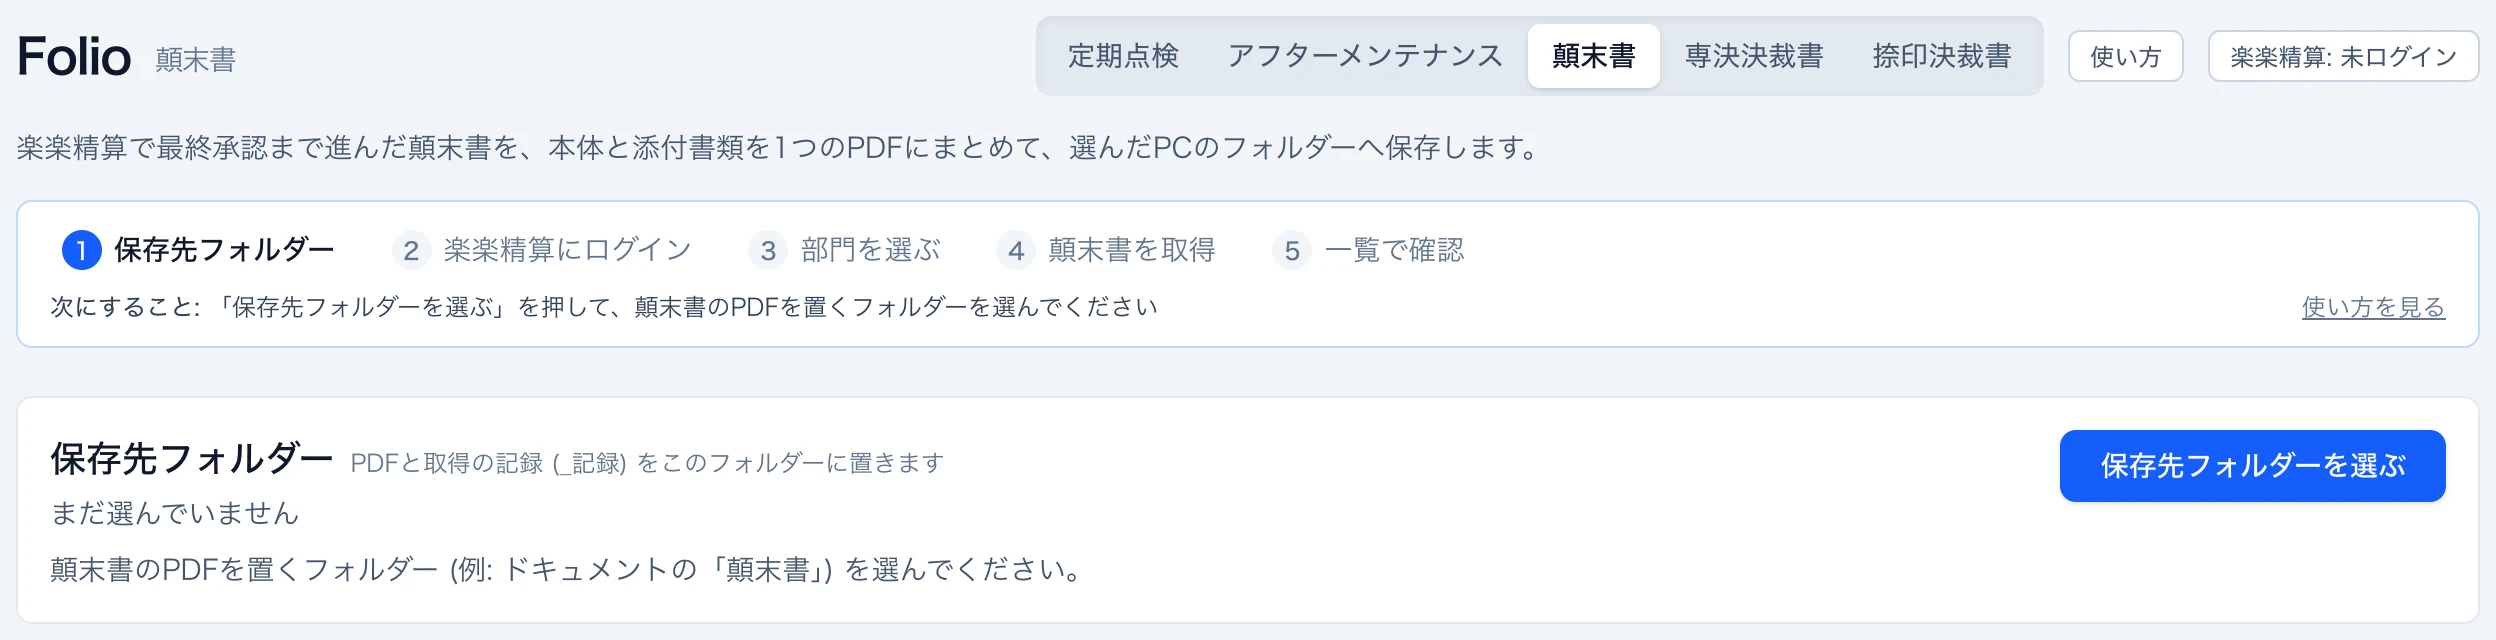
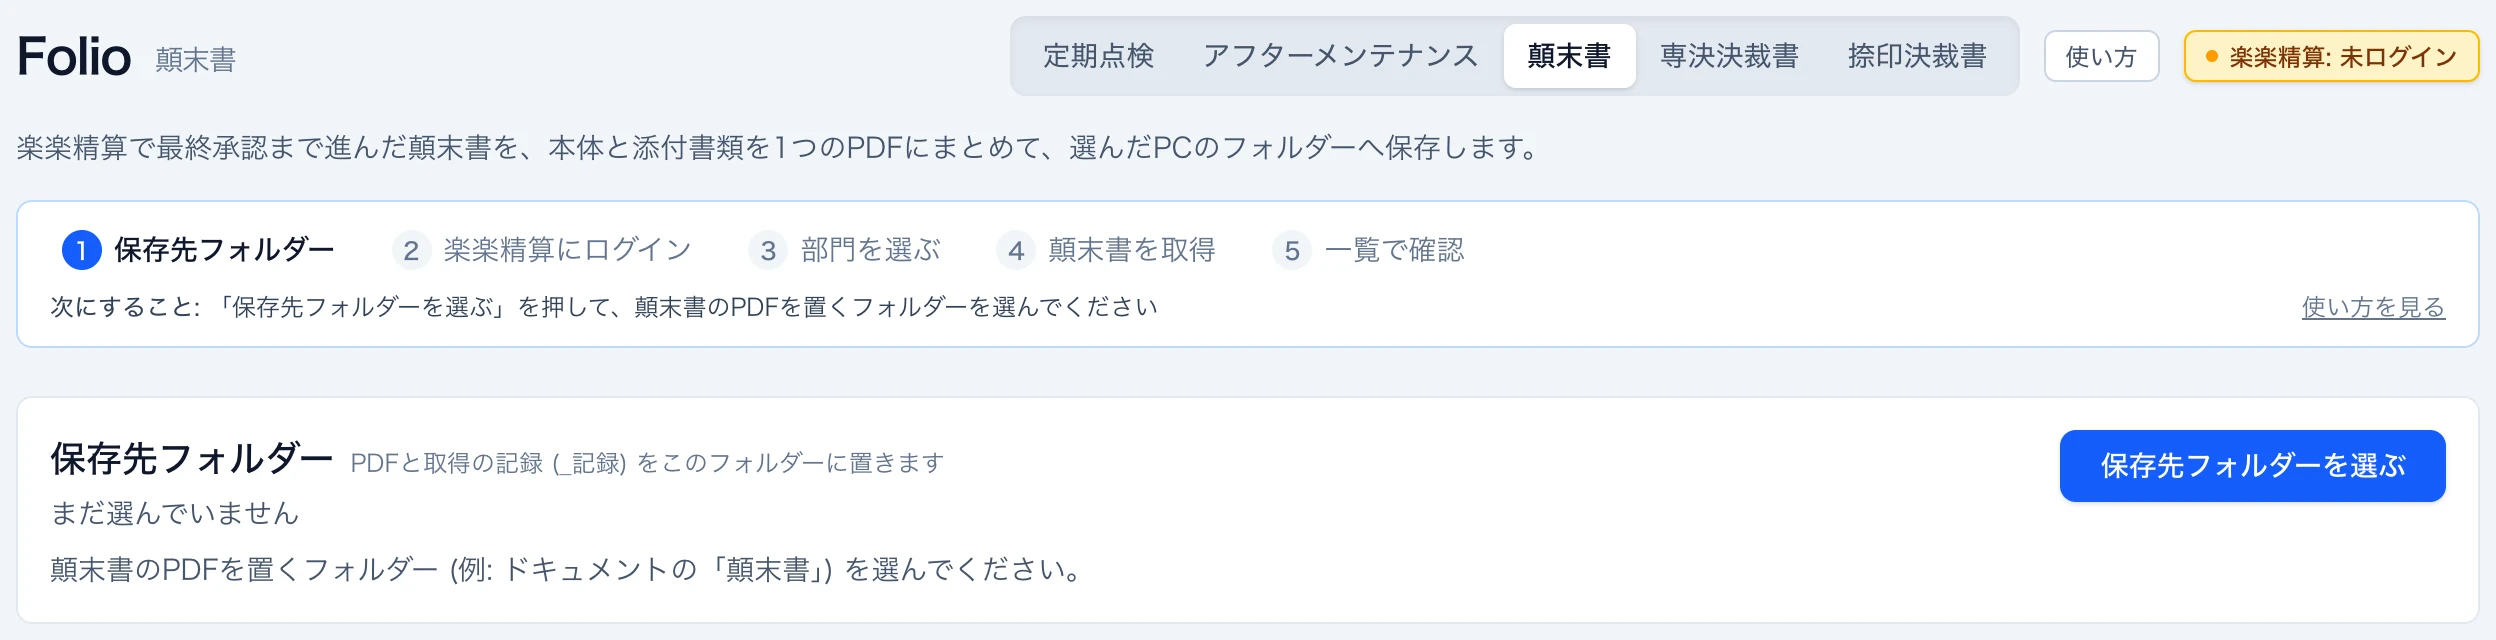
ヘッダー: 楽楽精算の未ログインを目立たせ、ログアウトの行き先を名前で分ける
ほかのボタンと同じ灰色だったので、どちらも気づきにくかった。

- 未ログインは琥珀色＋点で出す。ただし目立たせるのは**楽楽精算を使う3画面**
  だけで、定期点検・アフターでは今までどおり静かに出す（使わない画面で
  気を引いても邪魔なだけ）。ログイン中は緑＋点。
- 「ログアウト」を「Folio からログアウト」にした。楽楽精算側は
  「ログアウト (パスワードを忘れる)」なので、名前で見分けられる。
  間に区切りを入れ、吹き出しに楽楽精算側の場所も書いた。

使い方の FAQ と README も、ログアウトが2つあることを書く形に直した。
顛末書の1枚目も撮り直した。

Changed region(s): [[0.4062, 0.0312, 1.0, 0.1562]]

diff --git a/components/mode-nav.tsx b/components/mode-nav.tsx
@@ -9,7 +9,10 @@ import { SIGNED_IN_COOKIE } from "@/lib/auth";
 import { HELP_SECTIONS } from "@/lib/help";
 import { getHelpDialogState, openHelp, subscribeHelpDialog } from "@/lib/help-dialog";
 import { getNavigationGuard } from "@/lib/navigation-guard";
+import type { ChipTone } from "@/lib/rakuraku-login-dialog";
 import {
+  FOLIO_LOGOUT_LABEL,
+  FOLIO_LOGOUT_TITLE,
   RAKURAKU_CHIP_ID,
   openLoginDialog,
   rakurakuChip,
@@ -27,6 +30,18 @@ import {
  * 画面 (処理の種類)。扱うデータが別なのでURLも分ける。
  * 顛末書と専決決裁書は同じ作りなので、種類の設定から並べる。
  */
+/**
+ * 楽楽精算の表示の見た目。
+ * ★**未ログイン（alert）はいちばん目立たせる**。ほかのボタンと同じ灰色だと気づかれなかった。
+ * ★楽楽精算を使わない画面（定期点検・アフター）では静かにする（off）。
+ */
+const CHIP_CLASS: Record<ChipTone, string> = {
+  alert: "border border-amber-400 bg-amber-100 font-semibold text-amber-900 shadow-sm hover:bg-amber-200",
+  on: "border border-emerald-300 bg-emerald-50 font-medium text-emerald-800 hover:bg-emerald-100",
+  off: "border border-slate-300 bg-white font-medium text-slate-600 hover:bg-slate-50",
+  unknown: "border border-slate-300 bg-white font-medium text-slate-600 hover:bg-slate-50",
+};
+
 export const MODES: readonly { href: string; label: string }[] = [
   { href: "/", label: "定期点検" },
   { href: "/after", label: "アフターメンテナンス" },
@@ -65,11 +80,11 @@ export function ModeNav() {
   }, []);
   const [loginOpen, setLoginOpen] = useState(false);
   useEffect(() => subscribeLoginDialog((s) => setLoginOpen(s.open)), []);
-  const chip = rakurakuChip(rakuraku);
   /** いま見ている画面の使い方を、開いたときの既定タブにする */
   const currentSlug = HELP_SECTIONS.find((s) => s.href === pathname)?.slug ?? null;
-  /** いま見ているのが顛末書系ならその種類（モーダルの文言に使う）。ほかは null */
+  /** いま見ているのが顛末書系ならその種類（楽楽精算を使う画面か）。ほかは null */
   const currentKind = DOC_KINDS.find((k) => k.route === pathname)?.id ?? null;
+  const chip = rakurakuChip({ ...rakuraku, onDocPage: currentKind !== null });
 
   // ログイン画面では画面の切り替えを出さない (押しても戻されるだけなので)
   if (pathname === "/login") return null;
@@ -128,26 +143,32 @@ export function ModeNav() {
         aria-haspopup="dialog"
         aria-pressed={loginOpen}
         title={chip.title}
-        className={
-          chip.tone === "on"
-            ? "cursor-pointer rounded-md border border-emerald-300 bg-emerald-50 px-2.5 py-1 text-xs font-medium text-emerald-800 hover:bg-emerald-100"
-            : "cursor-pointer rounded-md border border-slate-300 bg-white px-2.5 py-1 text-xs font-medium text-slate-600 hover:bg-slate-50"
-        }
+        className={`inline-flex cursor-pointer items-center gap-1.5 rounded-md px-2.5 py-1 text-xs ${CHIP_CLASS[chip.tone]}`}
       >
+        {chip.dot && (
+          <span
+            aria-hidden
+            className={`h-1.5 w-1.5 shrink-0 rounded-full ${chip.tone === "on" ? "bg-emerald-500" : "bg-amber-500"}`}
+          />
+        )}
         {chip.text}
       </button>
       <HelpDialog />
       <RakurakuLoginDialog />
       {signedIn && (
-        <form method="post" action="/api/logout">
-          <button
-            type="submit"
-            title="このブラウザのログインを解除します (共有の端末では作業後に押してください)"
-            className="cursor-pointer rounded-md border border-slate-300 bg-white px-2.5 py-1 text-xs font-medium text-slate-600 hover:bg-slate-50"
-          >
-            ログアウト
-          </button>
-        </form>
+        <>
+          {/* ★楽楽精算のログアウトと取り違えないよう、間に区切りを入れて名前も分ける */}
+          <span aria-hidden className="h-4 w-px shrink-0 bg-slate-300" />
+          <form method="post" action="/api/logout">
+            <button
+              type="submit"
+              title={FOLIO_LOGOUT_TITLE}
+              className="cursor-pointer rounded-md border border-slate-300 bg-white px-2.5 py-1 text-xs font-medium text-slate-500 hover:bg-slate-50 hover:text-slate-700"
+            >
+              {FOLIO_LOGOUT_LABEL}
+            </button>
+          </form>
+        </>
       )}
     </div>
   );

diff --git a/tests/rakuraku-login-dialog.test.ts b/tests/rakuraku-login-dialog.test.ts
@@ -1,6 +1,8 @@
 import { readFileSync } from "node:fs";
 import { afterEach, beforeEach, describe, expect, it } from "vitest";
 import {
+  FOLIO_LOGOUT_LABEL,
+  FOLIO_LOGOUT_TITLE,
   LOGIN_DISMISSED_KEY,
   LOGIN_RULE_TEXT,
   clearLoginDismissal,
@@ -185,26 +187,60 @@ describe("ほかの場所でログインできたとき", () => {
 });
 
 describe("ヘッダーの表示", () => {
+  const chip = (over: Parameters<typeof rakurakuChip>[0]) => rakurakuChip(over);
+
   it("★分かる前は「楽楽精算」だけ（サーバーで描いた中身と食い違わせない）", () => {
-    const chip = rakurakuChip({ known: false, loggedIn: false, userId: "17xxxx" });
-    expect(chip.text).toBe("楽楽精算");
-    expect(chip.tone).toBe("unknown");
-    expect(chip.title).not.toContain("17xxxx");
+    const view = chip({ known: false, loggedIn: false, userId: "17xxxx", onDocPage: true });
+    expect(view.text).toBe("楽楽精算");
+    expect(view.tone).toBe("unknown");
+    expect(view.dot).toBe(false);
+    expect(view.title).not.toContain("17xxxx");
   });
 
-  it("未ログインなら、そう出して押せることも伝える", () => {
-    const chip = rakurakuChip({ known: true, loggedIn: false, userId: null });
-    expect(chip.text).toBe("楽楽精算: 未ログイン");
-    expect(chip.tone).toBe("off");
-    expect(chip.title).toContain("開きます");
+  it("★楽楽精算を使う画面で未ログインなら、いちばん目立たせる", () => {
+    const view = chip({ known: true, loggedIn: false, userId: null, onDocPage: true });
+    expect(view.text).toBe("楽楽精算: 未ログイン");
+    expect(view.tone).toBe("alert");
+    expect(view.dot).toBe(true);
+    expect(view.title).toContain("この画面の取得には");
+  });
+
+  it("★使わない画面（定期点検・アフター）では静かにする", () => {
+    const view = chip({ known: true, loggedIn: false, userId: null, onDocPage: false });
+    expect(view.text).toBe("楽楽精算: 未ログイン");
+    expect(view.tone).toBe("off");
+    expect(view.dot).toBe(false);
   });
 
   it("ログイン中は ID を添える（画面の文字には出さない）", () => {
-    const chip = rakurakuChip({ known: true, loggedIn: true, userId: "ID-1" });
-    expect(chip.text).toBe("楽楽精算: ログイン中");
-    expect(chip.tone).toBe("on");
-    expect(chip.title).toContain("ID-1");
-    expect(chip.text).not.toContain("ID-1");
+    const view = chip({ known: true, loggedIn: true, userId: "ID-1", onDocPage: true });
+    expect(view.text).toBe("楽楽精算: ログイン中");
+    expect(view.tone).toBe("on");
+    expect(view.dot).toBe(true);
+    expect(view.title).toContain("ID-1");
+    expect(view.text).not.toContain("ID-1");
+  });
+
+  it("ログイン中の見た目は、どの画面でも同じ", () => {
+    const a = chip({ known: true, loggedIn: true, userId: null, onDocPage: true });
+    const b = chip({ known: true, loggedIn: true, userId: null, onDocPage: false });
+    expect(a).toEqual(b);
+  });
+});
+
+describe("Folio 自体のログアウト", () => {
+  it("★どちらのログアウトか、名前で分かるようにする", () => {
+    expect(FOLIO_LOGOUT_LABEL).toContain("Folio");
+    expect(FOLIO_LOGOUT_LABEL).toContain("ログアウト");
+  });
+
+  it("楽楽精算のログアウトの場所も添える", () => {
+    expect(FOLIO_LOGOUT_TITLE).toContain("楽楽精算");
+    expect(FOLIO_LOGOUT_TITLE).toContain("共有の端末");
+  });
+
+  it("★楽楽精算側の文言とは別物（取り違えない）", () => {
+    expect(FOLIO_LOGOUT_LABEL).not.toContain("パスワードを忘れる");
   });
 });
 

diff --git a/lib/rakuraku-login-dialog.ts b/lib/rakuraku-login-dialog.ts
@@ -169,32 +169,49 @@ export function shouldAutoCloseLogin(input: {
   return input.open && input.loggedIn && input.reason !== "manual";
 }
 
-export type ChipTone = "unknown" | "off" | "on";
+export type ChipTone =
+  /** まだ分からない（サーバーで描いた直後）。静かに出す */
+  | "unknown"
+  /** 未ログイン。**その画面で要る**ので目立たせる */
+  | "alert"
+  /** 未ログイン。ただしその画面では使わないので静かに出す */
+  | "off"
+  | "on";
 
 export interface ChipView {
   text: string;
   tone: ChipTone;
   title: string;
+  /** 状態の点を出すか（読み上げには出さない飾り） */
+  dot: boolean;
 }
 
 /**
  * ヘッダーに出す楽楽精算の状態。
+ *
  * ★`known` が false のあいだ（サーバーで描いた直後）は「楽楽精算」とだけ出す。
  *   ここで sessionStorage を読むと、サーバーの描画と食い違う。
+ * ★未ログインを目立たせるのは**楽楽精算を使う画面**（顛末書・専決決裁書・捺印決裁書）だけ。
+ *   定期点検・アフターでは使わないので、そこで気を引くと邪魔なだけになる。
  */
 export function rakurakuChip(input: {
   known: boolean;
   loggedIn: boolean;
   userId: string | null;
+  /** いま見ているのが楽楽精算を使う画面か（顛末書系なら true） */
+  onDocPage: boolean;
 }): ChipView {
   if (!input.known) {
-    return { text: "楽楽精算", tone: "unknown", title: "楽楽精算のログイン" };
+    return { text: "楽楽精算", tone: "unknown", title: "楽楽精算のログイン", dot: false };
   }
   if (!input.loggedIn) {
     return {
       text: "楽楽精算: 未ログイン",
-      tone: "off",
-      title: "押すと楽楽精算のログインの画面が開きます（顛末書・専決決裁書・捺印決裁書で使います）",
+      tone: input.onDocPage ? "alert" : "off",
+      title: input.onDocPage
+        ? "この画面の取得には楽楽精算のログインが要ります。押すとログインの画面が開きます"
+        : "押すと楽楽精算のログインの画面が開きます（顛末書・専決決裁書・捺印決裁書で使います）",
+      dot: input.onDocPage,
     };
   }
   return {
@@ -203,8 +220,18 @@ export function rakurakuChip(input: {
     title: input.userId
       ? `ID: ${input.userId}。押すとログインの画面が開きます（ログアウトもできます）`
       : "押すとログインの画面が開きます（ログアウトもできます）",
+    dot: true,
   };
 }
+
+/**
+ * ヘッダーの「ログアウト」の文言。
+ * ★楽楽精算のログアウト（「ログアウト (パスワードを忘れる)」）と取り違えられていたので、
+ *   どちらのログアウトかを名前に入れる。
+ */
+export const FOLIO_LOGOUT_LABEL = "Folio からログアウト";
+export const FOLIO_LOGOUT_TITLE =
+  "Folio 自体のログインを解除します（楽楽精算のログアウトは「楽楽精算」の表示から）。共有の端末では作業後に押してください";
 
 /** 押す前に知っておくこと。★「ロック」と「やり直しません」を落とさない */
 export const LOGIN_RULE_TEXT =

diff --git a/lib/help.ts b/lib/help.ts
@@ -51,7 +51,7 @@ export const COMMON_FAQ: readonly HelpFaq[] = [
   },
   {
     q: "共有のパソコンで使ったあとは",
-    a: "右上の「ログアウト」を押してください。楽楽精算のログイン状態はタブを閉じると消えますが、Folio 自体のログインはブラウザに残ります。楽楽精算のログイン状態は、右上の「楽楽精算: ログイン中／未ログイン」で分かります (押すとログインの画面が開き、ログアウトもできます)。",
+    a: "右上の「Folio からログアウト」を押してください。ログアウトは2つあります。「Folio からログアウト」は Folio 自体のログイン (ブラウザに残ります) を解除します。楽楽精算の方は、右上の「楽楽精算: ログイン中／未ログイン」を押して「ログアウト (パスワードを忘れる)」です (こちらはタブを閉じても消えます)。",
   },
   {
     q: "処理中に別の画面へ移ろうとすると確認が出ます",

diff --git a/lib/help-shots.generated.ts b/lib/help-shots.generated.ts
@@ -36,7 +36,7 @@ export const HELP_SHOT_GEOMETRY: Readonly<Record<string, HelpShotGeometry>> = {
   "tenmatsu-folder": {
     width: 2496,
     height: 640,
-    hotspots: [{ x: 93.9, y: 8.8 }, { x: 90.3, y: 72.8 }],
+    hotspots: [{ x: 93.4, y: 8.8 }, { x: 90.3, y: 72.8 }],
   },
   "tenmatsu-login": {
     width: 1024,

diff --git a/README.md b/README.md
@@ -60,6 +60,9 @@ npm run dev:lan -- --print   # 開くURLを出すだけ
 - **押せないボタンには、その理由を文字で出します**（例「保存先フォルダーにつないでください →保存先フォルダーへ」）。マウスを乗せたときの吹き出しも今までどおり出ます。
 - 右上の「**楽楽精算: ログイン中／未ログイン**」で、楽楽精算のログイン状態がどの画面からでも分かります（2026-09-22）。
   押すとログインの画面が開き、ログアウトもできます。顛末書・専決決裁書・捺印決裁書で共通の1回のログインです。
+  **未ログインは、楽楽精算を使う3つの画面でだけ琥珀色で目立たせます**（定期点検・アフターでは使わないので静かに出します）。
+- ログアウトは2つあります。右上の「**Folio からログアウト**」は Folio 自体のログイン、
+  楽楽精算の表示を押して出る「**ログアウト (パスワードを忘れる)**」は楽楽精算の方です。
 - 右上の「**使い方**」を押すと、画面を切り替えずに**モーダル**で使い方が開きます（`components/help-dialog.tsx`）。
   上のタブで画面を選び直せます。手順バーの「使い方を見る」を押すと、その画面のタブが最初から選ばれた状態で開きます。
   手順の文言は画面の手順バーと同じものを使っているので、画面と説明がずれません。
@@ -777,13 +780,13 @@ Folio共有/
 
 ### ログイン（Folio 自体の合言葉）
 
-★これは **Folio を開くための合言葉**で、楽楽精算のログイン（[顛末書の取得](#顛末書の取得)）とは別物です。画面右上の「ログアウト」は Folio の方、「楽楽精算: ログイン中」は楽楽精算の方です。
+★これは **Folio を開くための合言葉**で、楽楽精算のログイン（[顛末書の取得](#顛末書の取得)）とは別物です。画面右上の「**Folio からログアウト**」は Folio の方、「**楽楽精算: ログイン中**」は楽楽精算の方です。
 
 `APP_PASSWORD` を設定すると、未ログインのアクセスは**ログイン画面**（`/login`）に飛びます。
 
 - ブラウザ標準の認証ダイアログではなく**通常の入力フォーム**です。パスワードマネージャーが保存・自動入力できます（ユーザー名の欄には `APP_USER` の値が最初から入っています）
 - 一度ログインすると、**同じブラウザでは30日間ログインしたまま**です（ブラウザを閉じても残ります）。日数は `APP_SESSION_DAYS` で変えられます
-- 共有の端末では、作業後に画面右上の**「ログアウト」**を押してください
+- 共有の端末では、作業後に画面右上の**「Folio からログアウト」**を押してください
 - 保存されるのは**有効期限と署名だけ**のクッキーで、パスワードそのものは入りません（JavaScriptからも読めません）。`APP_PASSWORD` を変えると、それまでのログインはすべて無効になります
 - スクリプトから叩くときのために、**Basic認証のヘッダーも引き続き受け付けます**（`curl -u user:パスワード ...`）
 - APIはリダイレクトせず 401 を返します
